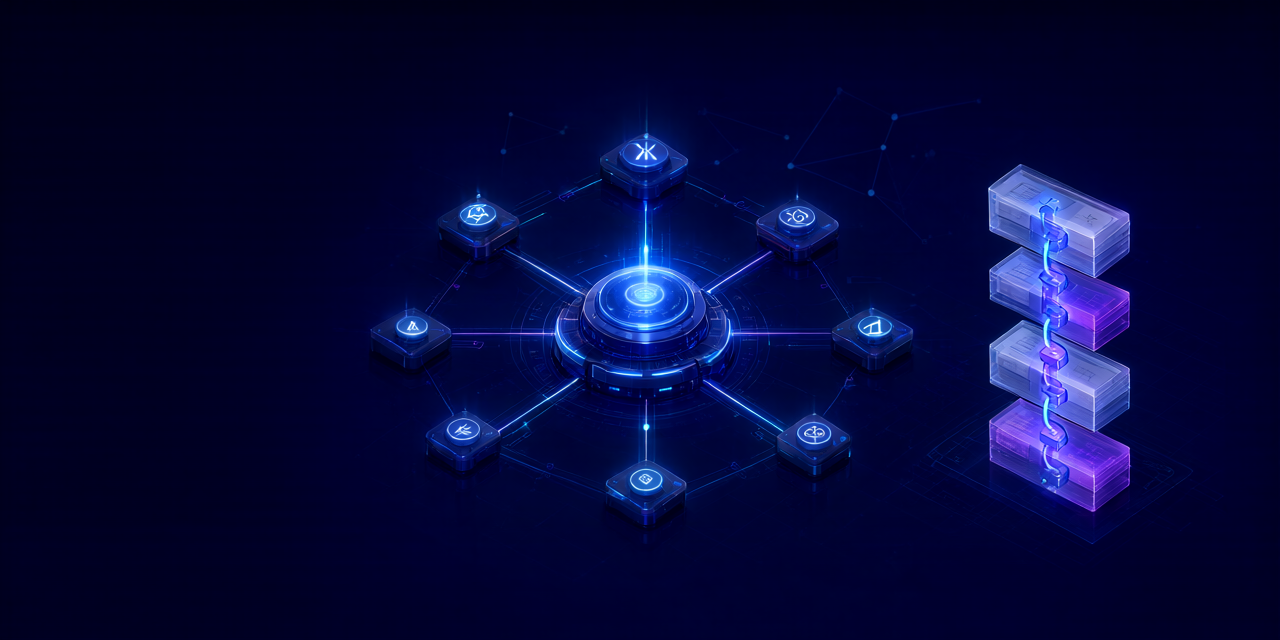
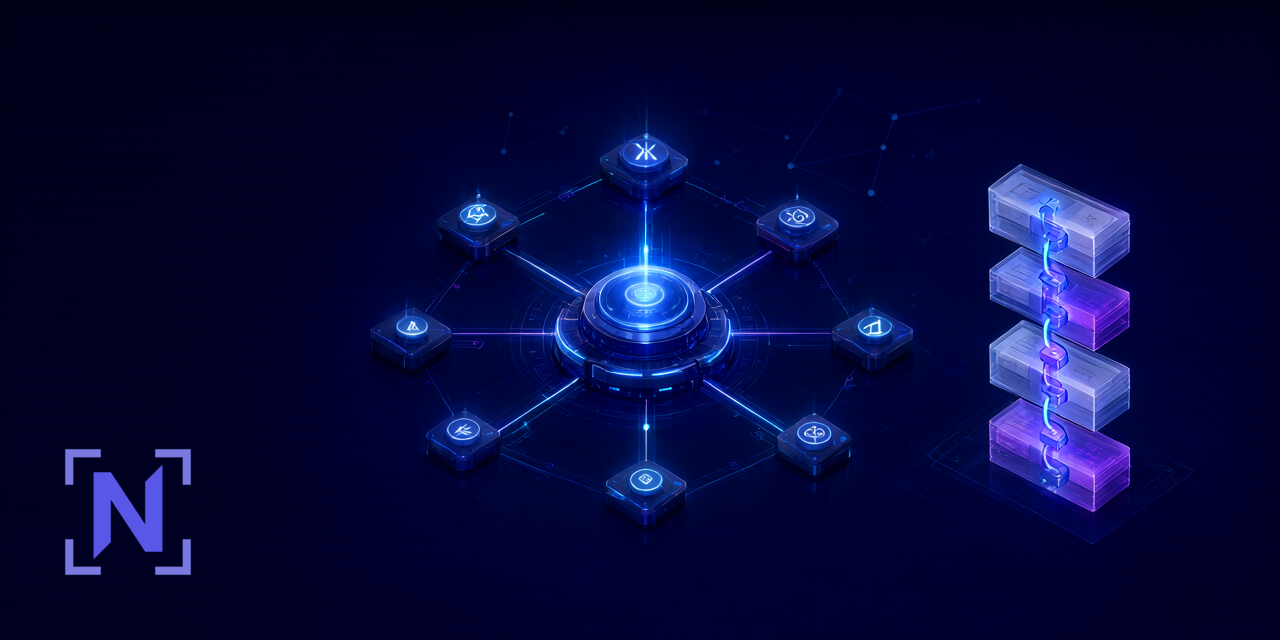
feat(release): v1.0.2 - automatic model routing, custom domain, brand mark
Task: T-0000
Role: CEO
Producers: CEO, Release Engineer, Designer
Goal: cut v1.0.2 and refresh the social preview.
Deliverable: version.py and CHANGELOG are 1.0.2 (the release workflow refuses a
tag that disagrees); TEAMWORK_AGENT_HOST pins host detection so the routing test is
deterministic rather than environment dependent; the social preview is regenerated
as 1280x640 with the Nidvue mark composited into the safe area and committed to
assets/social-preview.png.
Why: the automatic routing, the custom domain and the brand mark all landed after
v1.0.1, and a release is how they become a downloadable artefact; the flaky test was
fixed before shipping rather than disclosed as flaky again.
Status: all local gates green; the tag follows this commit.
Result: pytest -q -> 264 passed, 1 skipped; ruff + format + mypy clean; links 0;
privacy --tree --history 0 findings.

Changed region(s): [[0.0312, 0.6875, 0.1562, 0.9062]]

diff --git a/src/teamwork/engine.py b/src/teamwork/engine.py
@@ -8212,8 +8212,16 @@ LANE_TIER = {
 
 
 def detect_agent_host(env=None) -> str:
-    """Which agent host is running us, from the environment it exports."""
+    """Which agent host is running us, from the environment it exports.
+
+    ``TEAMWORK_AGENT_HOST`` wins when set: detection is inference, and an explicit
+    override is how you make it deterministic (CI, a wrapper script, or a host
+    whose markers are ambiguous).
+    """
     env = os.environ if env is None else env
+    override = (env.get("TEAMWORK_AGENT_HOST") or "").strip().lower()
+    if override:
+        return override
     for host, markers in AGENT_HOSTS.items():
         if any(env.get(marker) for marker in markers):
             return host

diff --git a/tests/unit/test_skill_contracts.py b/tests/unit/test_skill_contracts.py
@@ -827,6 +827,8 @@ def test_auto_reads_the_environment_and_never_invents_a_model(cli, project, caps
     assert "model=strong" not in out and "claude-" not in out
 
     # an environment model is routed: strong lanes first, economy elsewhere
+    # explicit override: detection infers, this decides
+    monkeypatch.setenv("TEAMWORK_AGENT_HOST", "claude")
     monkeypatch.setenv("CLAUDECODE", "1")
     monkeypatch.setenv("TEAMWORK_MODEL_STRONG", "a-strong-model")
     monkeypatch.setenv("TEAMWORK_MODEL_ECONOMY", "a-cheap-model")

diff --git a/src/teamwork/version.py b/src/teamwork/version.py
@@ -6,7 +6,7 @@ that importing ``teamwork`` stays cheap.
 
 from __future__ import annotations
 
-__version__ = "1.0.1"
+__version__ = "1.0.2"
 
 #: Distribution name on PyPI. The name ``teamwork`` is already taken there, so
 #: the project ships as ``teamwork-agents`` while importing as ``teamwork``.

diff --git a/CHANGELOG.md b/CHANGELOG.md
@@ -11,6 +11,30 @@ and this project adheres to [Semantic Versioning](https://semver.org/spec/v2.0.0
 
 ## [Unreleased](https://github.com/VisionPZ/Teamwork/compare/v1.0.0...HEAD)
 
+## [1.0.2](https://github.com/VisionPZ/Teamwork/releases/tag/v1.0.2) - 2026-10-17
+
+### Added
+
+- **Automatic model routing** from the runtime environment: `teamwork model auto`
+  detects the agent host (pi, claude, opencode, codex, cursor, gemini), routes the
+  strongest available model to the decision lanes and the economy model to the
+  mechanical lanes, and never invents a model id (`--apply`, `--json`).
+- `TEAMWORK_AGENT_HOST` to pin host detection deterministically.
+- The site is served from the custom domain **teamwork.nidvue.com**.
+
+### Changed
+
+- Positioning: Nidvue Teamwork is published as a **skill for any coding agent**;
+  the stdlib-only engine is the tool the skill calls and the package is optional.
+- Branding: the master brand **Nidvue** precedes the product name in the README,
+  the site, the docs, the package metadata and the file headers; the Nidvue mark
+  from nidvue.com is bundled and used in the README and the site (with a trademark
+  note in NOTICE).
+
+### Fixed
+
+- The release workflow fails when the tag and the package version disagree.
+
 ## [1.0.1](https://github.com/VisionPZ/Teamwork/releases/tag/v1.0.1) - 2026-10-17
 
 ### Added

diff --git a/references/Concurrency.md b/references/Concurrency.md
@@ -118,3 +118,5 @@ checks). Quality where it compounds, cheapness where it does not.
 - `--apply` is explicit: the plan is a dry run by default, and applying it is
   recorded in the ledger.
 - Re-run it when the host or the budget changes; it is idempotent.
+- `TEAMWORK_AGENT_HOST=claude|pi|opencode|codex|cursor|gemini` overrides
+  detection when the markers are ambiguous (CI, wrapper scripts).
